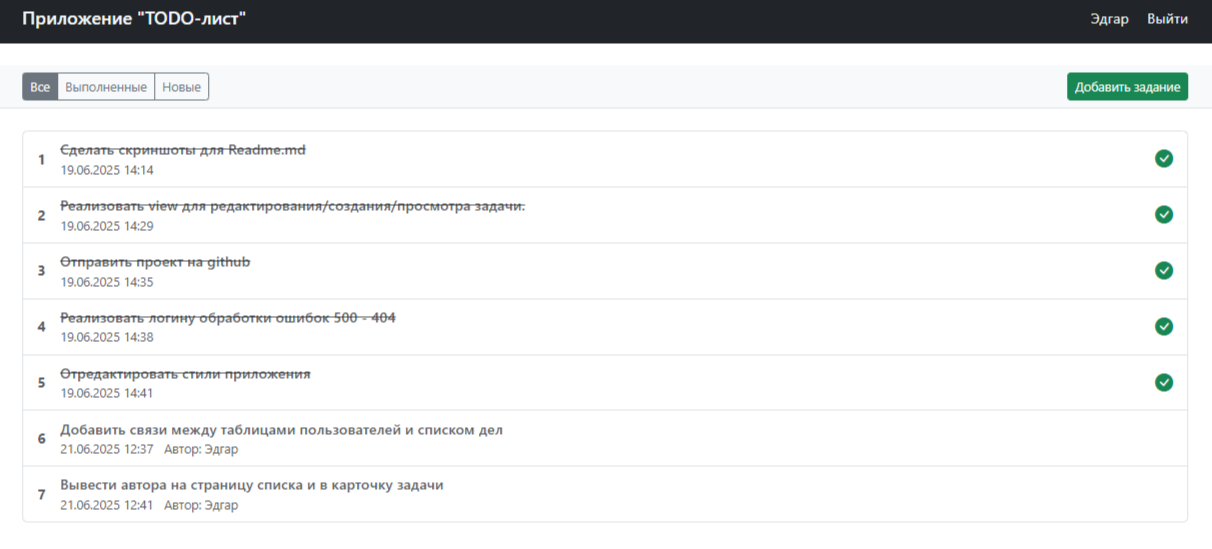
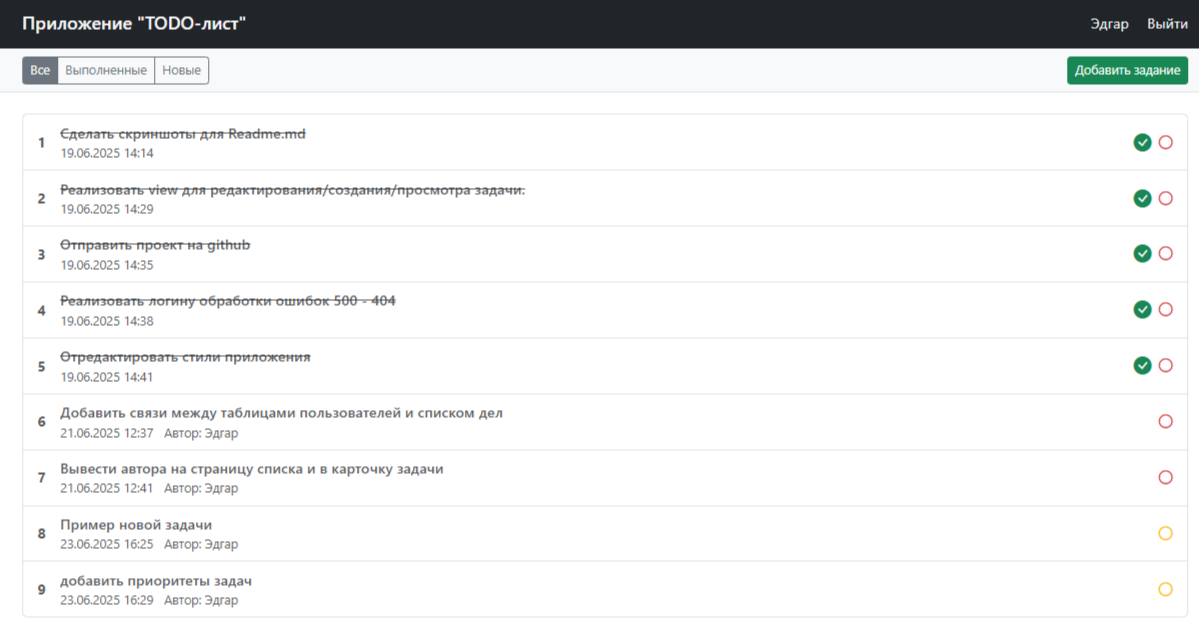
3. LazyInitializationexception [#331987]

diff --git a/src/main/resources/templates/tasks/view.html b/src/main/resources/templates/tasks/view.html
@@ -28,16 +28,34 @@
                     <textarea th:field="*{description}" class="form-control" rows="4" th:disabled="${!task.editing}"></textarea>
                 </div>
 
-                <div class="mt-4 d-flex justify-content-between align-items-end">
+                <!-- Блок информации (приоритет, статус, автор) -->
+                <div class="mt-4 d-flex justify-content-between align-items-start">
                     <div>
-                        <a th:href="@{/index}" class="btn btn-secondary">Назад</a>
+                        <label><strong>Приоритет:</strong></label>
+                        <div th:if="${task.editing}">
 
-                        <button type="submit" class="btn btn-success" th:if="${task.editing}">Сохранить</button>
+                            <label style="color: orange;">
+                                <input type="radio" th:field="*{priorityId}" th:value="2" />
+                                Нормально
+                            </label>
 
-                        <a th:href="@{'/tasks/' + ${task.id} + '/edit'}" class="btn btn-primary" th:if="${!task.editing}">Редактировать</a>
+                            <label style="color: red; margin-right: 1em;">
+                                <input type="radio" th:field="*{priorityId}" th:value="1" />
+                                Срочно
+                            </label>
+
+                        </div>
+
+                        <div th:if="${!task.editing}">
+            <span th:switch="${task.priorityId}">
+                <span th:case="1" style="color: red;">Срочно</span>
+                <span th:case="2" style="color: orange;">Нормально</span>
+                <span th:case="*">Не задан</span>
+            </span>
+                        </div>
                     </div>
 
-                    <div class="text-end" th:if="${!task.editing}">
+                    <div class="text-end">
                         <div>
                             <strong>Статус:</strong>
                             <span th:text="${task.done} ? 'Выполнено' : 'Новая'">Статус</span>
@@ -46,13 +64,22 @@
                         <div th:if="${task.user != null and task.user.name != null}">
                             <small class="text-muted" th:text="'Автор: ' + ${task.user.name}">Автор</small>
                         </div>
+                    </div>
+                </div>
 
-                        <div class="mt-2">
-                            <a th:href="@{'/tasks/' + ${task.id} + '/done'}"
-                               class="btn btn-outline-success me-2"
-                               th:if="${!task.done}">Выполнено</a>
-                            <a th:href="@{'/tasks/' + ${task.id} + '/delete'}" class="btn btn-outline-danger">Удалить</a>
-                        </div>
+                <!-- Блок кнопок -->
+                <div class="mt-3 d-flex justify-content-between align-items-center">
+                    <a th:href="@{/index}" class="btn btn-secondary">Назад</a>
+
+                    <div>
+                        <button type="submit" class="btn btn-success" th:if="${task.editing}">Сохранить</button>
+                        <a th:href="@{'/tasks/' + ${task.id} + '/edit'}" class="btn btn-primary" th:if="${!task.editing}">Редактировать</a>
+                        <a th:href="@{'/tasks/' + ${task.id} + '/done'}"
+                           class="btn btn-outline-success me-2"
+                           th:if="${!task.editing and !task.done}">Выполнено</a>
+                        <a th:href="@{'/tasks/' + ${task.id} + '/delete'}"
+                           class="btn btn-outline-danger"
+                           th:if="${!task.editing}">Удалить</a>
                     </div>
                 </div>
 

diff --git a/src/main/resources/templates/fragments/tasklist.html b/src/main/resources/templates/fragments/tasklist.html
@@ -23,6 +23,14 @@
             <div th:if="${task.done}" class="text-success fs-5">
                 <i class="bi bi-check-circle-fill"></i>
             </div>
+
+            <i class="fa-regular fa-circle ms-2"
+               th:classappend="${task.priority == null} ? 'text-secondary' :
+                   (${task.priority.name == 'normal'} ? 'text-warning' :
+                   (${task.priority.name == 'urgently'} ? 'text-danger' : 'text-secondary'))"
+               th:title="${task.priority != null ? task.priority.name : 'Нет приоритета'}">
+            </i>
+
         </a>
     </div>
 </div>

diff --git a/src/main/resources/templates/fragments/header.html b/src/main/resources/templates/fragments/header.html
@@ -12,5 +12,7 @@
     <script src="https://code.jquery.com/jquery-3.4.1.slim.min.js"
             integrity="sha384-J6qa4849blE2+poT4WnyKhv5vZF5SrPo0iEjwBvKU7imGFAV0wwj1yYfoRSJoZ+n" crossorigin="anonymous"></script>
 
+    <link rel="stylesheet" href="https://cdnjs.cloudflare.com/ajax/libs/font-awesome/6.5.0/css/all.min.css">
+
     <title th:utext="${pageTitle}">TODO-лист</title>
 </head>

diff --git a/src/main/java/ru/job4j/todo/service/SimpleTaskService.java b/src/main/java/ru/job4j/todo/service/SimpleTaskService.java
@@ -4,6 +4,7 @@ import lombok.AllArgsConstructor;
 import org.springframework.stereotype.Service;
 import ru.job4j.todo.dto.TaskDto;
 import ru.job4j.todo.model.Task;
+import ru.job4j.todo.store.PriorityStore;
 import ru.job4j.todo.store.TaskStore;
 
 import java.util.List;
@@ -14,6 +15,7 @@ import java.util.NoSuchElementException;
 public class SimpleTaskService implements TaskService {
 
     private final TaskStore simpleTaskStore;
+    private final PriorityStore simplePriorityStore;
 
     @Override
     public Task save(TaskDto taskDto) {
@@ -60,6 +62,9 @@ public class SimpleTaskService implements TaskService {
         task.setCreated(dto.getCreated());
         task.setDone(dto.isDone());
         task.setUser(dto.getUser());
+        task.setPriority(
+                simplePriorityStore.findById(dto.getPriorityId()).orElseThrow()
+        );
         return task;
     }
 
@@ -72,6 +77,7 @@ public class SimpleTaskService implements TaskService {
         dto.setDone(task.isDone());
         dto.setEditing(editing);
         dto.setUser(task.getUser());
+        dto.setPriorityId(task.getPriority().getId());
         return dto;
     }
 }

diff --git a/src/main/java/ru/job4j/todo/store/SimpleTaskStore.java b/src/main/java/ru/job4j/todo/store/SimpleTaskStore.java
@@ -35,13 +35,13 @@ public class SimpleTaskStore implements TaskStore {
 
     @Override
     public List<Task> findAll() {
-        return crudStore.query("from Task order by id", Task.class);
+        return crudStore.query("FROM Task t JOIN FETCH t.priority ORDER BY t.id", Task.class);
     }
 
     @Override
     public List<Task> findByStatus(boolean done) {
         return crudStore.query(
-                "from Task where done=:done order by id", Task.class,
+                "FROM Task t JOIN FETCH t.priority WHERE t.done=:done ORDER BY t.id", Task.class,
                 Map.of("done", done)
         );
     }
@@ -49,8 +49,8 @@ public class SimpleTaskStore implements TaskStore {
     @Override
     public Optional<Task> findById(int id) {
         return crudStore.optional(
-                "from Task where id=:fId", Task.class,
-                Map.of("fId", id)
+                "FROM Task t JOIN FETCH t.priority WHERE t.id=:id", Task.class,
+                Map.of("id", id)
         );
     }
 

diff --git a/src/main/java/ru/job4j/todo/model/Task.java b/src/main/java/ru/job4j/todo/model/Task.java
@@ -3,11 +3,13 @@ package ru.job4j.todo.model;
 import jakarta.persistence.*;
 import lombok.AllArgsConstructor;
 import lombok.Data;
+import lombok.EqualsAndHashCode;
 import lombok.NoArgsConstructor;
 
 import java.time.LocalDateTime;
 
 @Data
+@EqualsAndHashCode(onlyExplicitlyIncluded = true)
 @AllArgsConstructor
 @NoArgsConstructor
 @Entity
@@ -15,6 +17,7 @@ import java.time.LocalDateTime;
 public class Task {
     @Id
     @GeneratedValue(strategy = GenerationType.IDENTITY)
+    @EqualsAndHashCode.Include
     private int id;
     private String title;
     private String description;
@@ -24,4 +27,8 @@ public class Task {
     @ManyToOne
     @JoinColumn(name = "user_id")
     private User user;
+
+    @ManyToOne(fetch = FetchType.LAZY)
+    @JoinColumn(name = "priority_id")
+    private Priority priority;
 }

diff --git a/src/main/java/ru/job4j/todo/store/SimplePriorityStore.java b/src/main/java/ru/job4j/todo/store/SimplePriorityStore.java
@@ -1,0 +1,23 @@
+package ru.job4j.todo.store;
+
+import lombok.AllArgsConstructor;
+import org.springframework.stereotype.Repository;
+import ru.job4j.todo.model.Priority;
+
+import java.util.Map;
+import java.util.Optional;
+
+@AllArgsConstructor
+@Repository
+public class SimplePriorityStore implements PriorityStore {
+
+    private final CrudStore crudStore;
+
+    @Override
+    public Optional<Priority> findById(int id) {
+        return crudStore.optional(
+                "FROM Priority WHERE id=:id", Priority.class,
+                Map.of("id", id)
+        );
+    }
+}

diff --git a/src/main/java/ru/job4j/todo/model/Priority.java b/src/main/java/ru/job4j/todo/model/Priority.java
@@ -1,0 +1,21 @@
+package ru.job4j.todo.model;
+
+import jakarta.persistence.*;
+import lombok.Data;
+import lombok.EqualsAndHashCode;
+
+@Data
+@EqualsAndHashCode(onlyExplicitlyIncluded = true)
+@Entity
+@Table(name = "priorities")
+public class Priority {
+
+    @Id
+    @GeneratedValue(strategy = GenerationType.IDENTITY)
+    @EqualsAndHashCode.Include
+    private int id;
+
+    private String name;
+
+    private int position;
+}

diff --git a/src/main/java/ru/job4j/todo/controller/TaskController.java b/src/main/java/ru/job4j/todo/controller/TaskController.java
@@ -45,6 +45,7 @@ public class TaskController {
         taskDto.setEditing(true);
         taskDto.setCreated(LocalDateTime.now());
         taskDto.setUser(user);
+        taskDto.setPriorityId(2);
         model.addAttribute("task", taskDto);
         return "tasks/view";
     }

diff --git a/src/main/java/ru/job4j/todo/store/PriorityStore.java b/src/main/java/ru/job4j/todo/store/PriorityStore.java
@@ -1,0 +1,11 @@
+package ru.job4j.todo.store;
+
+import ru.job4j.todo.model.Priority;
+
+import java.util.Optional;
+
+public interface PriorityStore {
+
+    Optional<Priority> findById(int id);
+
+}

diff --git a/src/main/java/ru/job4j/todo/dto/TaskDto.java b/src/main/java/ru/job4j/todo/dto/TaskDto.java
@@ -18,4 +18,5 @@ public class TaskDto {
     private boolean done;
     private boolean editing;
     private User user;
+    private int priorityId;
 }

diff --git a/README.md b/README.md
@@ -42,7 +42,9 @@ mvn spring-boot:run
 ## Интерфейс
 ### Список задач
 ![tasklist.png](img/tasklist.png)
-### Карточка задачи
-![createtask.png](img/createtask.png)
+### Режим создания/редактирования
+![new.png](img/new.png)
+### Режим просмотра
+![view.png](img/view.png)
 ### Форма входа
 ![register.png](img/register.png)
